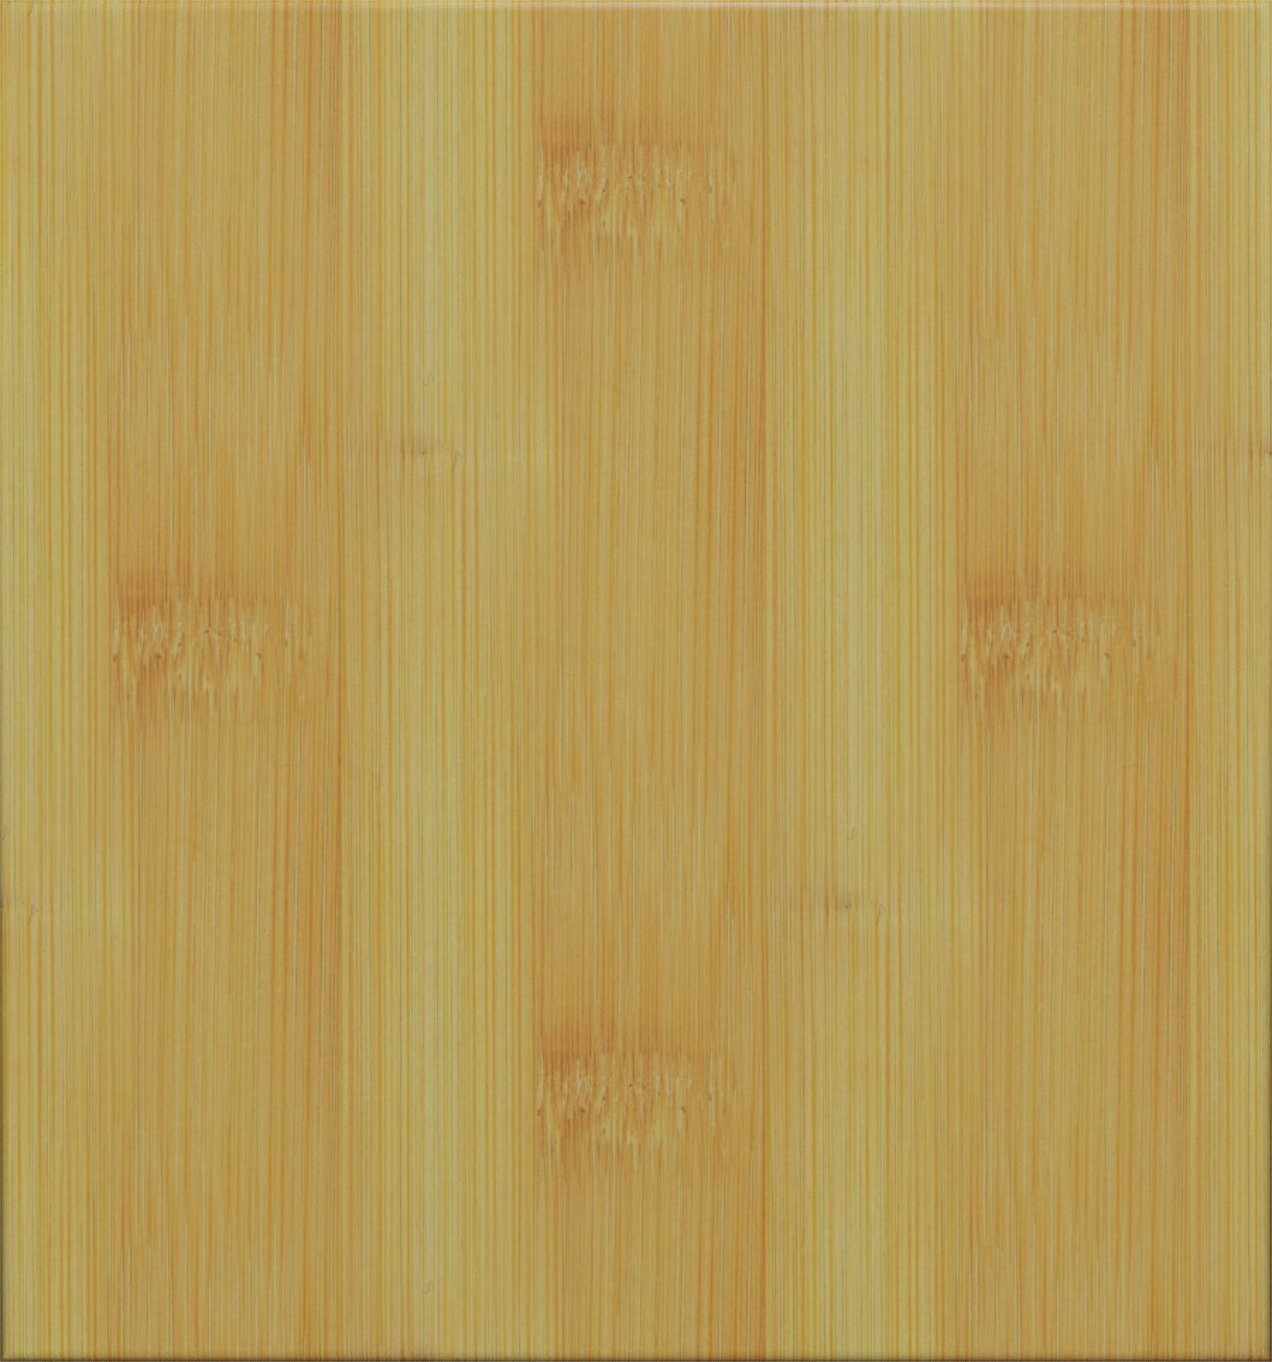
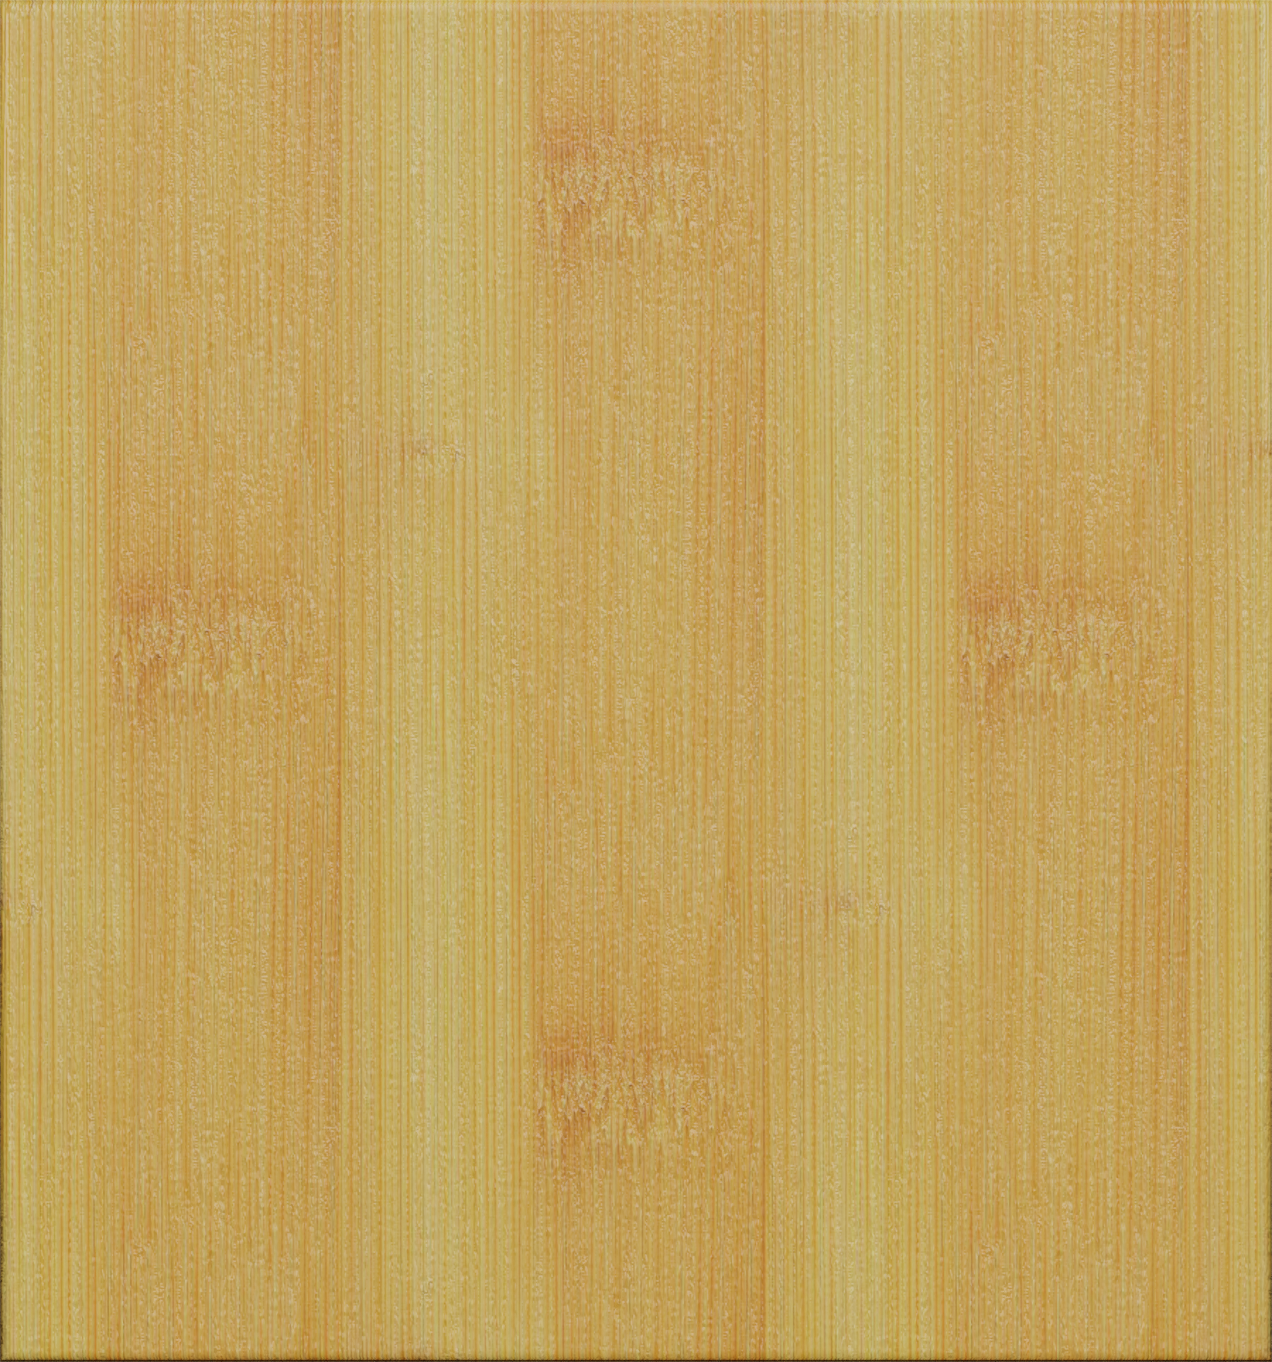
Added jade, improved antique

diff --git a/jade/theme/styles.css b/jade/theme/styles.css
@@ -1,0 +1,42 @@
+.shudan-goban {
+    --shudan-board-border-width: 0;
+    --shudan-board-foreground-color: #222;
+
+    --shudan-black-background-color: #0E0E0E;
+    --shudan-black-foreground-color: #eee;
+
+    --shudan-white-background-color: #EBEBEB;
+    --shudan-white-foreground-color: #eee;
+}
+
+.shudan-goban-image {
+  /* Board texture */
+  background-image: url('images/Board.png');
+}
+
+/* All stones are slightly different thickness
+ * therefore slightly different shading.
+ */
+.shudan-stone-image.shudan-sign_1 {
+    background-image: url('images/DarkStone.png');
+}
+
+.shudan-stone-image.shudan-sign_-1 {
+    background-image: url('images/LightStone.png');
+}
+
+/* The default dark grey background was producing noticeable
+ * dark rings around the white stones when viewing a 9x9 board
+ * fullscreen. The following 2 settings provide matching
+ * light and dark backgrounds for the white and black stones.
+ */
+
+.shudan-vertex:not(.shudan-sign_0).shudan-sign_1 .shudan-shadow {
+    background: #61543b
+}
+
+.shudan-vertex:not(.shudan-sign_0).shudan-sign_-1 .shudan-shadow {
+    background: #424738
+}
+
+main {background: #f0f0f0 url('images/Carpet.png') left top;}

diff --git a/jade/README.md b/jade/README.md
@@ -1,0 +1,26 @@
+# Jade Theme for Sabaki
+
+A subdued theme with jade stones and a kaya board for [Sabaki](http://sabaki.yichuanshen.de/).
+Rendered in [Blender](https://www.blender.org/).
+
+![Screenshot](JadeScreenshot.png)
+
+## Installation
+
+[Download](https://github.com/billhails/SabakiThemes/releases) the theme file and install it directly inside Sabaki
+under 'Preferences' > 'Themes' > 'Install Theme...'.
+
+## Build
+
+To create a Sabaki theme archive, install dependencies using npm, then run the build script:
+
+~~~
+npm install
+npm run build
+~~~
+
+This will create `jade.sabakitheme.asar`.
+
+## License
+
+Everything is released under [public domain](http://creativecommons.org/publicdomain/zero/1.0/).

diff --git a/README.md b/README.md
@@ -4,6 +4,7 @@ A collection of themes for [Sabaki](https://github.com/SabakiHQ/Sabaki).
 
 See the individual readme files in
 [yunzi](https://github.com/billhails/SabakiThemes/tree/main/yunzi),
-[antique](https://github.com/billhails/SabakiThemes/tree/main/antique)
+[antique](https://github.com/billhails/SabakiThemes/tree/main/antique),
+[jade](https://github.com/billhails/SabakiThemes/tree/main/jade)
 and
 [semi-precious](https://github.com/billhails/SabakiThemes/tree/main/semi-precious).
